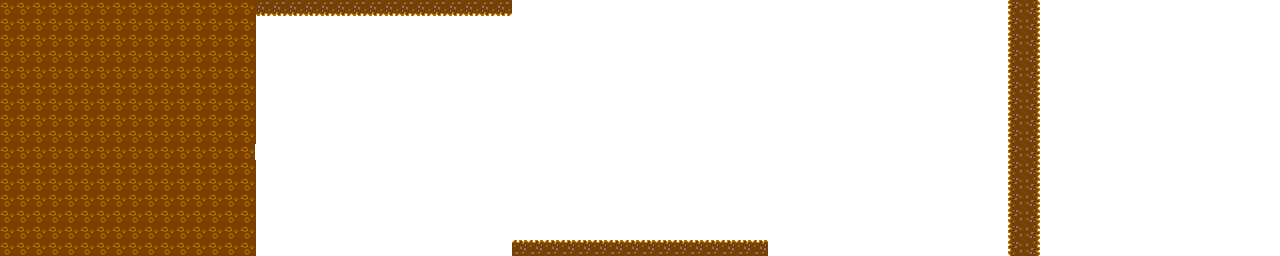
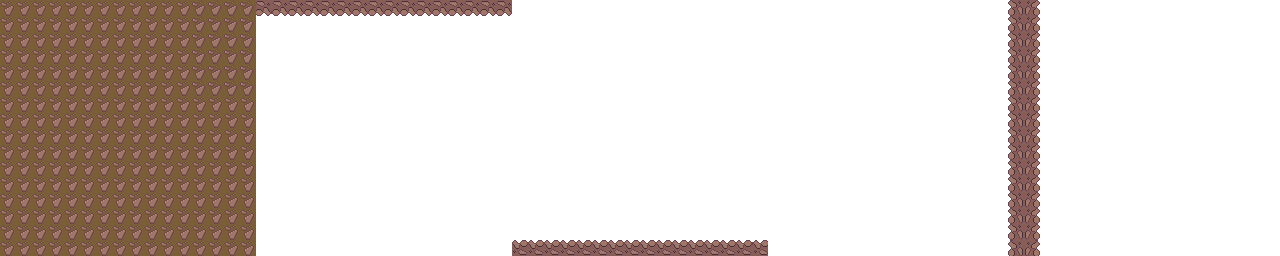
Updated assets, editor export can ignore tilemap

Changed region(s): [[0.0, 0.0, 0.4062, 1.0], [0.7812, 0.0, 0.8125, 1.0], [0.375, 0.9375, 0.625, 1.0]]

diff --git a/games/walker/level/levelData.js b/games/walker/level/levelData.js
@@ -16,47 +16,49 @@ LEVEL.Data.new = function(){
 LEVEL.Static.LevelName = function(){
 `;
         js += "\tlet data = LEVEL.Data.new();\n";
+        if(ld.tileMap != null){
+            js += "\tlet sprites = [];\n"
 
-        js += "\tlet sprites = [];\n"
-
-        for(let sprite of ld.tileMap.tileSprites){
-            js += "\tsprites.push(" + sprite.toJs() + ");\n";
-        }
-        let gridSize = 9;
-        if(ld.tileMap.size == 9){
-            // Yay, you actually have a grid to export! :3
-            js += "\tlet tiles = [\n";
-            for(let i = 0; i < gridSize; i++){
-                js += "\t";
-                for(let j = 0; j < gridSize; j++){
-                    js += "" + ld.tileMap.getSpriteIndexByCoords(VECTOR2.new(j, i));
-                    let cell = i * gridSize + j;
-                    if(cell != gridSize * gridSize){
-                        js += ",";
-                    }
-                }
-                js += "\n";
+            for(let sprite of ld.tileMap.tileSprites){
+                js += "\tsprites.push(" + sprite.toJs() + ");\n";
             }
-            js += "\t];\n";
-        }
-        else{
-            js += "\t // Update this by hand. :3\n";
-            js += "\tlet tiles = [\n";
-            js += "\t 0,0,0,0,0,0,0,0,0,\n";
-            js += "\t 0,0,0,0,0,0,0,0,0,\n";
-            js += "\t 0,0,0,0,0,0,0,0,0,\n";
-            js += "\t 0,0,0,0,0,0,0,0,0,\n";
-            js += "\t 0,0,0,0,0,0,0,0,0,\n";
-            js += "\t 0,0,0,0,0,0,0,0,0,\n";
-            js += "\t 0,0,0,0,0,0,0,0,0,\n";
-            js += "\t 0,0,0,0,0,0,0,0,0,\n";
-            js += "\t 0,0,0,0,0,0,0,0,0\n";
-            js += "\t];\n"
-        }
+        
+            let gridSize = 9;
+            if(ld.tileMap.size == 9){
+                // Yay, you actually have a grid to export! :3
+                js += "\tlet tiles = [\n";
+                for(let i = 0; i < gridSize; i++){
+                    js += "\t";
+                    for(let j = 0; j < gridSize; j++){
+                        js += "" + ld.tileMap.getSpriteIndexByCoords(VECTOR2.new(j, i));
+                        let cell = i * gridSize + j;
+                        if(cell != gridSize * gridSize){
+                            js += ",";
+                        }
+                    }
+                    js += "\n";
+                }
+                js += "\t];\n";
+            }
+            else{
+                js += "\t // Update this by hand. :3\n";
+                js += "\tlet tiles = [\n";
+                js += "\t 0,0,0,0,0,0,0,0,0,\n";
+                js += "\t 0,0,0,0,0,0,0,0,0,\n";
+                js += "\t 0,0,0,0,0,0,0,0,0,\n";
+                js += "\t 0,0,0,0,0,0,0,0,0,\n";
+                js += "\t 0,0,0,0,0,0,0,0,0,\n";
+                js += "\t 0,0,0,0,0,0,0,0,0,\n";
+                js += "\t 0,0,0,0,0,0,0,0,0,\n";
+                js += "\t 0,0,0,0,0,0,0,0,0,\n";
+                js += "\t 0,0,0,0,0,0,0,0,0\n";
+                js += "\t];\n"
+            }
 
-        js += "\tdata.tileMap = LEVEL.TileMap.new(sprites, tiles, " + gridSize +");\n";
+            js += "\tdata.tileMap = LEVEL.TileMap.new(sprites, tiles, " + gridSize +");\n";
 
-        js += "\n";
+            js += "\n";
+        }
 
         for(let entity of ld.entityData){
             js += "\tdata.entityData.push(";
